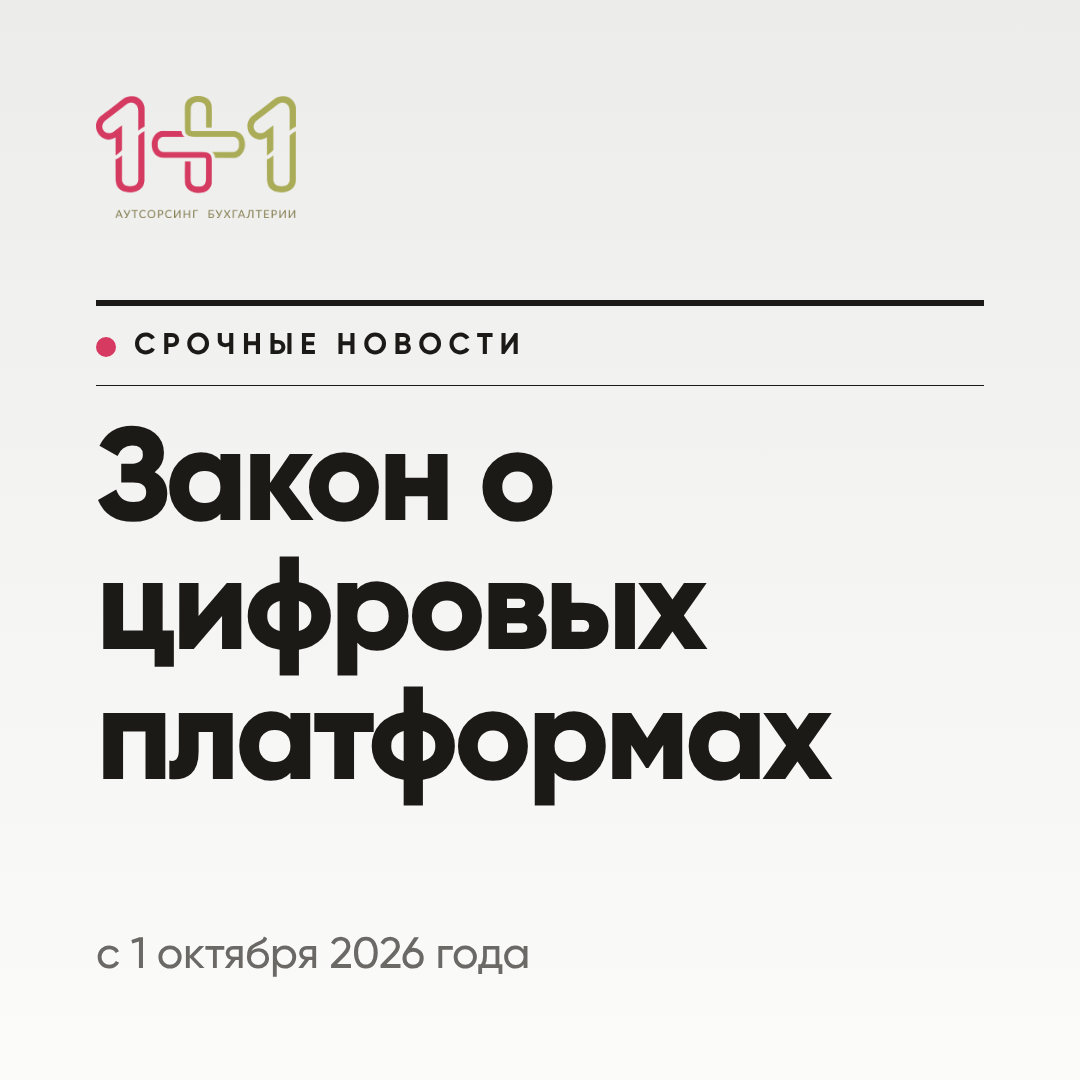
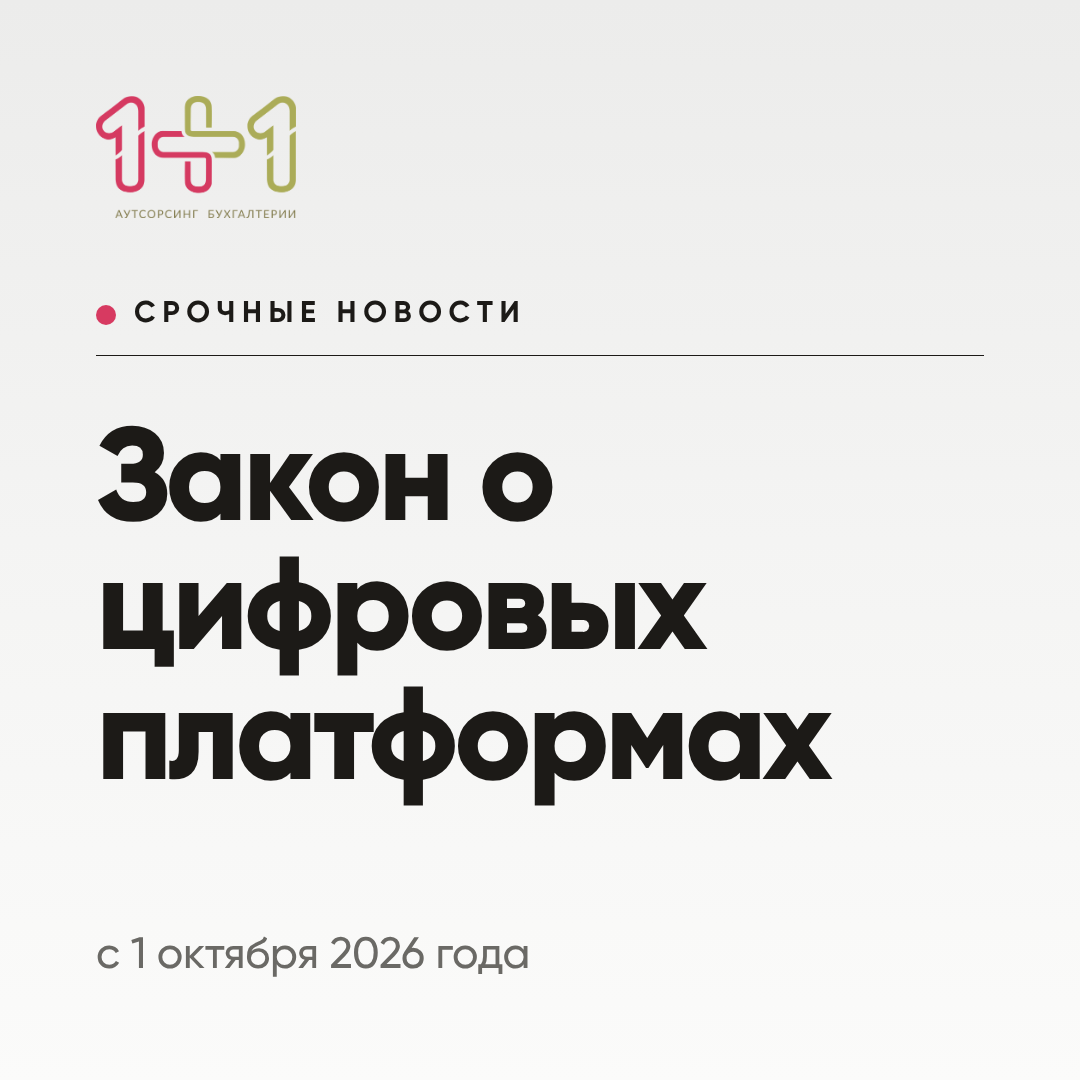
Newspaper urgent variant: remove thick top rule
Claude-Session: https://claude.ai/code/session_01VZ7Hrkur6jxoGp5f6QSiLJ

Changed region(s): [[0.0917, 0.275, 0.9167, 0.3361]]

diff --git a/specimens/work/urgent-newspaper.html b/specimens/work/urgent-newspaper.html
@@ -1,6 +1,6 @@
 <!doctype html><html lang="ru"><head><meta charset="utf-8"><title>Газета</title><link rel="stylesheet" href="../base.css">
 <style>.canvas{background:var(--paper);color:var(--graphite)}
-.rules{position:absolute;left:96px;right:96px;top:300px;border-top:6px solid var(--graphite);border-bottom:1.5px solid var(--graphite);padding:22px 0 20px;display:flex;align-items:center;justify-content:space-between}
+.rules{position:absolute;left:96px;right:96px;top:296px;border-bottom:1.5px solid var(--graphite);padding:0 0 22px;display:flex;align-items:center;justify-content:space-between}
 .live{display:flex;align-items:center;gap:18px;font-weight:700;font-size:30px;letter-spacing:.22em;text-transform:uppercase}
 .live i{width:20px;height:20px;border-radius:50%;background:var(--crimson);display:block}
 .d{font-weight:500;font-size:26px;letter-spacing:.06em;color:var(--stone)}
